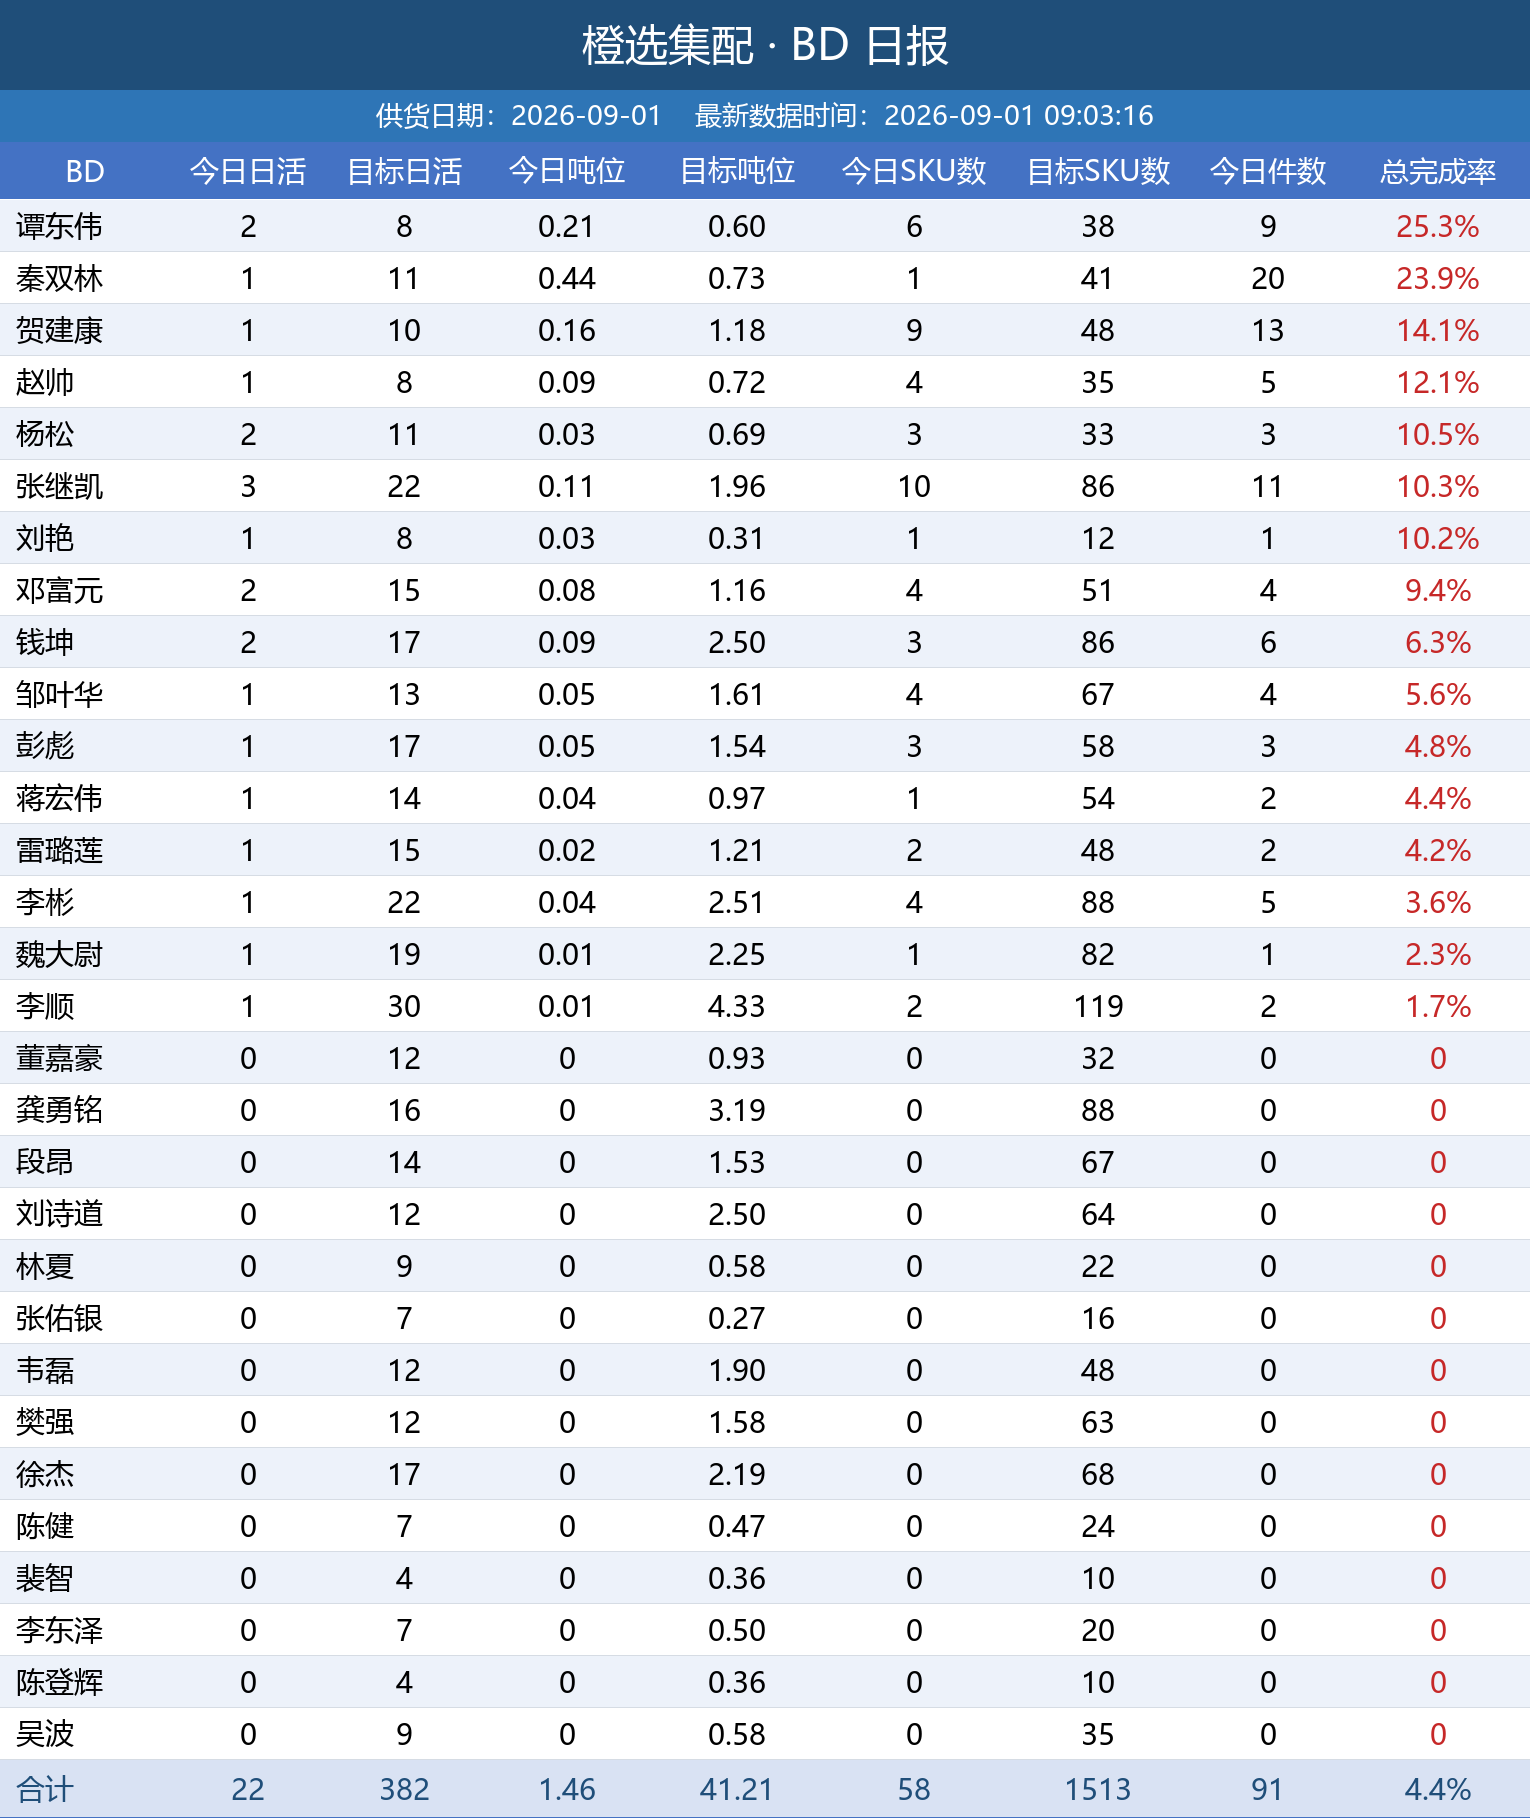
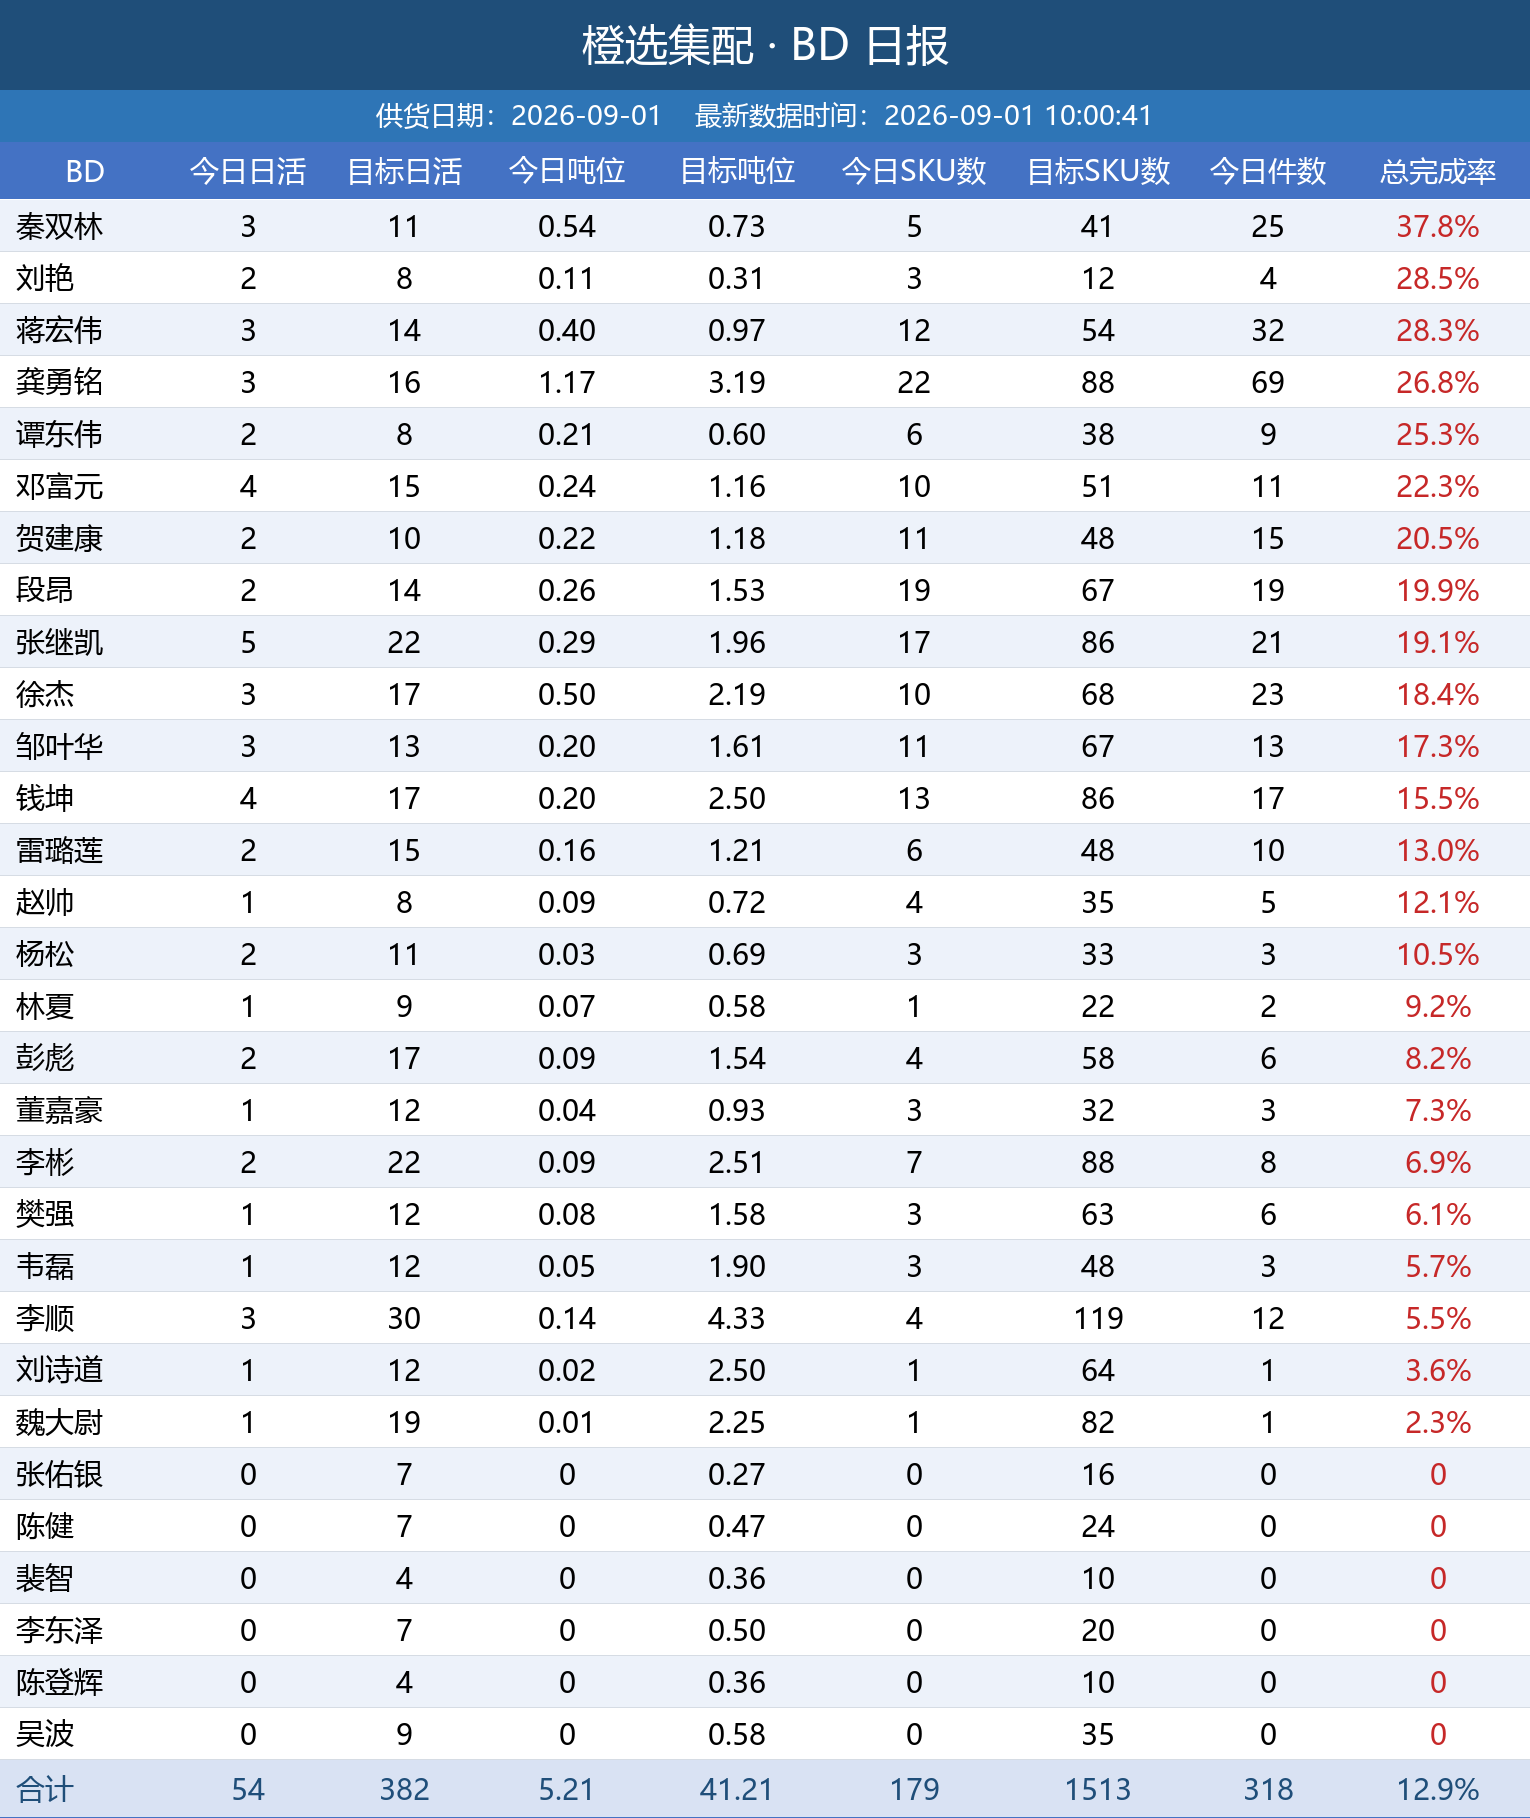
自动更新日报图片

diff --git a/index.html b/index.html
@@ -11,7 +11,7 @@ img { max-width: 100%; border: 1px solid #e5e5e5; margin-bottom: 24px; display: 
 </style>
 </head>
 <body>
-<h1>橙选集配日报图片（20260901_090318）</h1>
+<h1>橙选集配日报图片（20260901_100043）</h1>
 <img src="bd_latest.png" alt="BD 日报">
 <img src="wh_latest.png" alt="城市仓日报">
 <img src="zs_latest.png" alt="招商日报">
